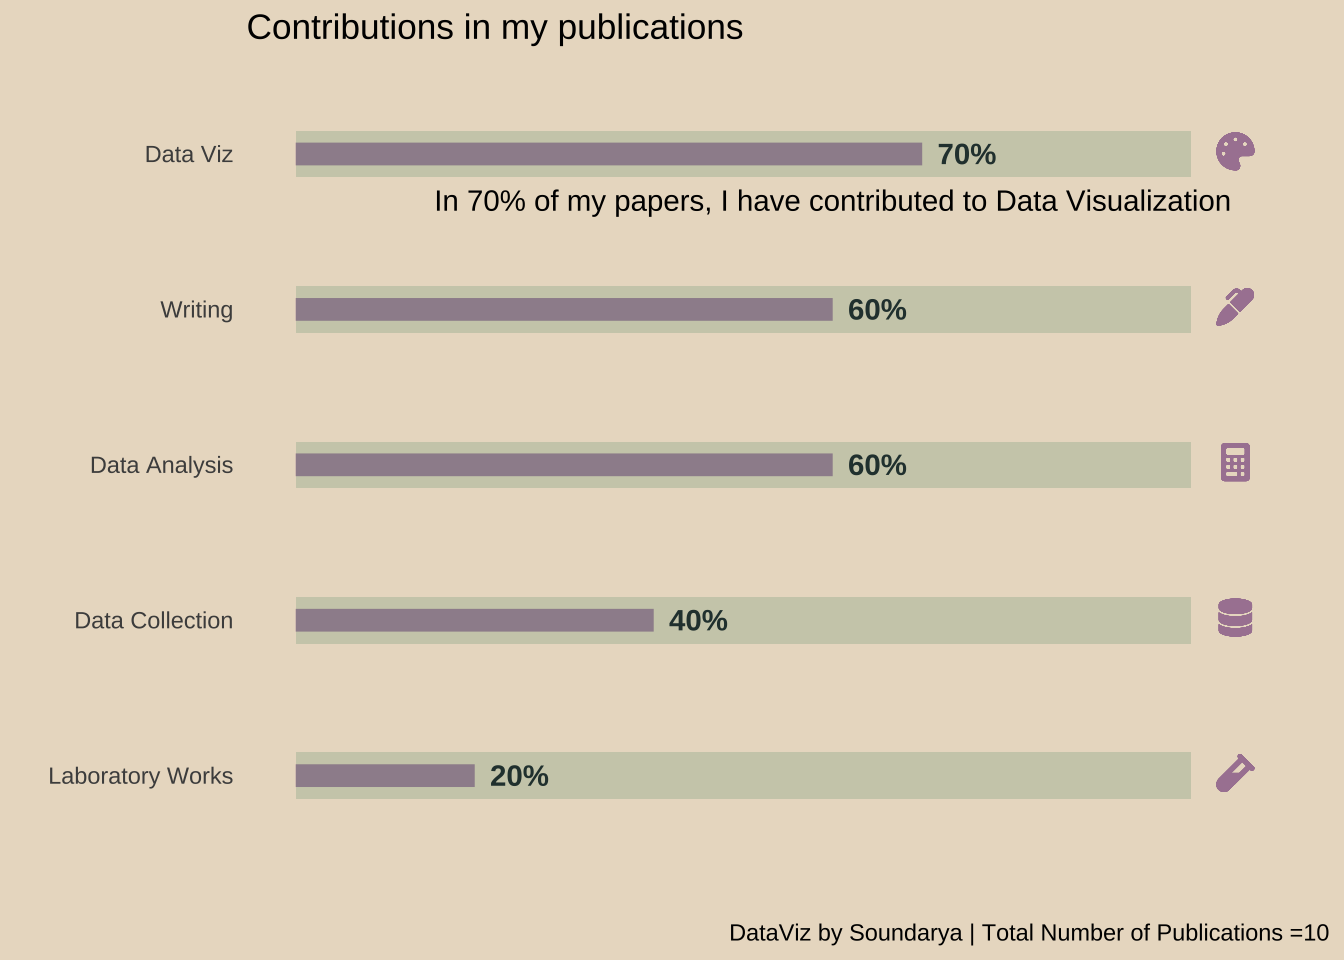
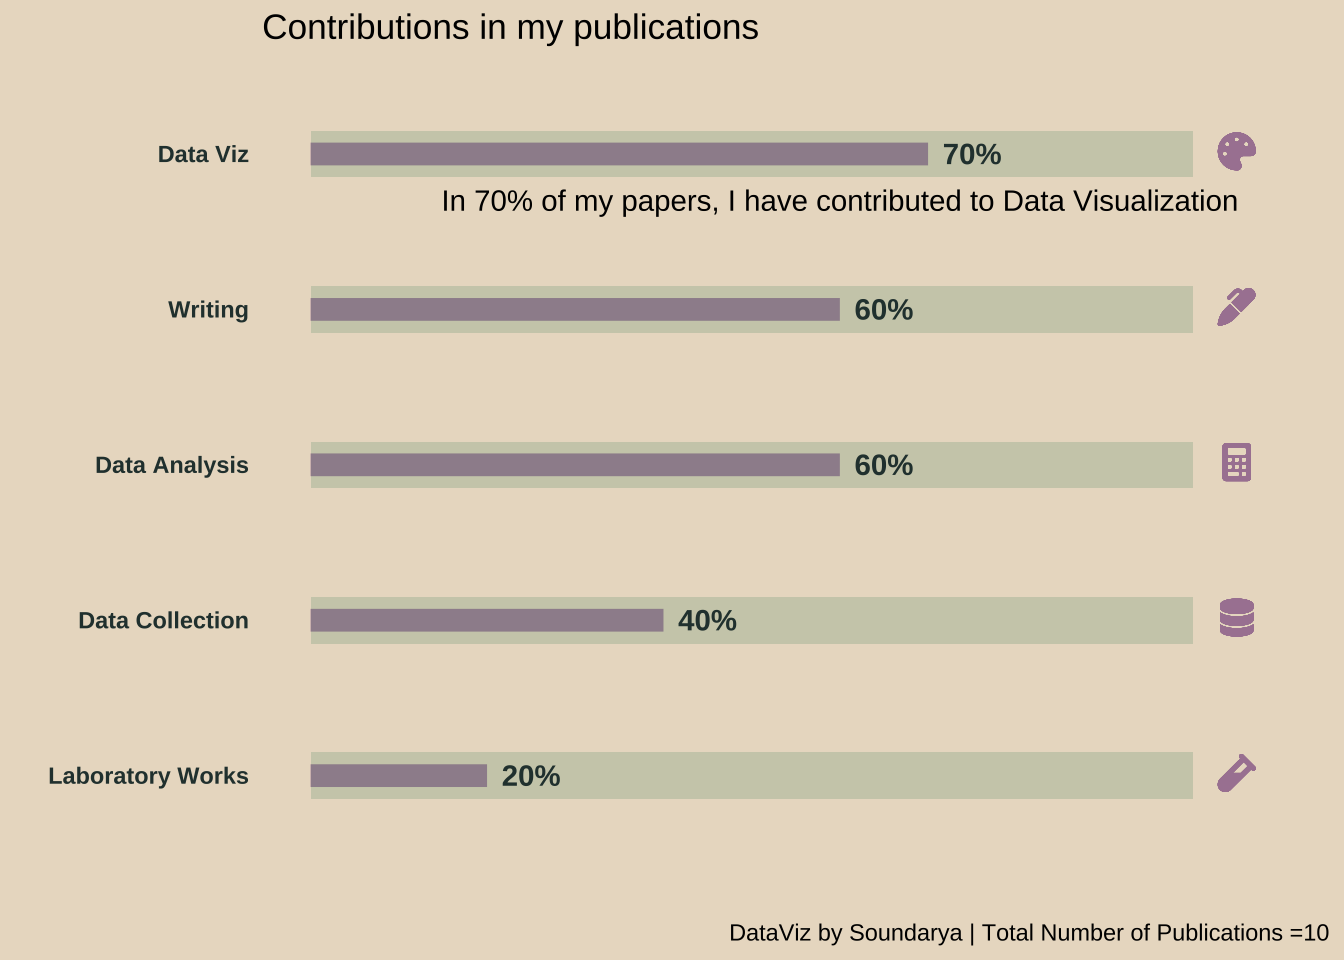
publications data viz y axis bolld

diff --git a/_site/portfolio.html b/_site/portfolio.html
@@ -100,68 +100,68 @@
 <p>This is a collection of my dataviz works; Click on the images to know the underlying codes.</p>
 <div class="quarto-layout-panel">
 <div class="quarto-layout-row quarto-layout-valign-top">
-<div id="fig-anonymous-651860" class="quarto-figure quarto-figure-left anchored" style="flex-basis: 35.1%;justify-content: center;">
+<div id="fig-anonymous-7796965" class="quarto-figure quarto-figure-left anchored" style="flex-basis: 35.1%;justify-content: center;">
 <figure class="figure">
 <p><a href="https://github.com/soundarya24/MyTidyTuesday/blob/master/w44_CanadianWindTurbines/RaincloudPlots_windTurbines.R"><img src="windTurbines.png" class="img-fluid figure-img" style="width:9.45in"></a></p>
 </figure>
 </div>
-<div id="fig-anonymous-2498356" class="quarto-figure quarto-figure-right anchored" style="flex-basis: 35.1%;justify-content: center;">
+<div id="fig-anonymous-8246955" class="quarto-figure quarto-figure-right anchored" style="flex-basis: 35.1%;justify-content: center;">
 <figure class="figure">
 <p><a href="https://github.com/soundarya24/MyTidyTuesday/blob/master/w39_HimalayanClimbers/Himalayas.R"><img src="Himalayas.png" class="img-fluid figure-img" style="width:9.45in"></a></p>
 </figure>
 </div>
-<div id="fig-anonymous-8832002" class="quarto-figure quarto-figure-left anchored" style="flex-basis: 29.7%;justify-content: center;">
+<div id="fig-anonymous-1070040" class="quarto-figure quarto-figure-left anchored" style="flex-basis: 29.7%;justify-content: center;">
 <figure class="figure">
 <p><a href="https://github.com/soundarya24/MyTidyTuesday/blob/master/w37_friends/Heatmap_friends_views.R"><img src="Heatmap_friends_views.png" class="img-fluid figure-img" style="width:8in"></a></p>
 </figure>
 </div>
 </div>
 <div class="quarto-layout-row quarto-layout-valign-top">
-<div id="fig-anonymous-3023105" class="quarto-figure quarto-figure-right anchored" style="flex-basis: 29.2%;justify-content: center;">
+<div id="fig-anonymous-9909293" class="quarto-figure quarto-figure-right anchored" style="flex-basis: 29.2%;justify-content: center;">
 <figure class="figure">
 <p><a href="https://github.com/soundarya24/MyTidyTuesday/blob/master/2021_w8_DuboisChallenge/Dubois_challenge.R"><img src="DuboisChallenge_areachart.png" class="img-fluid figure-img" style="width:7.78in"></a></p>
 </figure>
 </div>
-<div id="fig-anonymous-1888334" class="quarto-figure quarto-figure-left anchored" style="flex-basis: 35.4%;justify-content: center;">
+<div id="fig-anonymous-5545617" class="quarto-figure quarto-figure-left anchored" style="flex-basis: 35.4%;justify-content: center;">
 <figure class="figure">
 <p><a href="https://github.com/soundarya24/MyTidyTuesday/blob/master/2021_w2_traintransits/traintransit_dumbbell_twitter.R"><img src="trainlines_twitter.png" class="img-fluid figure-img" style="width:9.45in"></a></p>
 </figure>
 </div>
-<div id="fig-anonymous-2641387" class="quarto-figure quarto-figure-right anchored" style="flex-basis: 35.4%;justify-content: center;">
+<div id="fig-anonymous-8155288" class="quarto-figure quarto-figure-right anchored" style="flex-basis: 35.4%;justify-content: center;">
 <figure class="figure">
 <p><a href="https://github.com/soundarya24/MyRSpace/blob/main/My%20Thesis%20Manuscript%20Timeline/thesistimeline_github.Rmd"><img src="ThesisTimeline.png" class="img-fluid figure-img" style="width:9.45in"></a></p>
 </figure>
 </div>
 </div>
 <div class="quarto-layout-row quarto-layout-valign-top">
-<div id="fig-anonymous-8087951" class="quarto-figure quarto-figure-left anchored" style="flex-basis: 38.7%;justify-content: center;">
+<div id="fig-anonymous-7703782" class="quarto-figure quarto-figure-left anchored" style="flex-basis: 38.7%;justify-content: center;">
 <figure class="figure">
 <p><a href="https://twitter.com/SoundaryaRak/status/1528987670512553984?s=20&amp;t=-OlbuVRo5v3Qt4Aq_7EpsA"><img src="maldives.jpeg" class="img-fluid figure-img" style="width:9.45in"></a></p>
 </figure>
 </div>
-<div id="fig-anonymous-4432038" class="quarto-figure quarto-figure-center anchored" style="flex-basis: 30.7%;justify-content: center;">
+<div id="fig-anonymous-4410918" class="quarto-figure quarto-figure-center anchored" style="flex-basis: 30.7%;justify-content: center;">
 <figure class="figure">
 <p><a href="https://twitter.com/SoundaryaRak/status/1529423882821595136?s=20&amp;t=-OlbuVRo5v3Qt4Aq_7EpsA"><img src="afd.jpeg" class="img-fluid figure-img" style="width:7.5in"></a></p>
 </figure>
 </div>
-<div id="fig-anonymous-9056685" class="quarto-figure quarto-figure-right anchored" style="flex-basis: 30.5%;justify-content: center;">
+<div id="fig-anonymous-2981753" class="quarto-figure quarto-figure-right anchored" style="flex-basis: 30.5%;justify-content: center;">
 <figure class="figure">
 <p><a href="https://twitter.com/SoundaryaRak/status/1459124741537611783?s=20&amp;t=-OlbuVRo5v3Qt4Aq_7EpsA"><img src="acwri.png" class="img-fluid figure-img" style="width:7.45in"></a></p>
 </figure>
 </div>
 </div>
 <div class="quarto-layout-row quarto-layout-valign-top">
-<div id="fig-anonymous-5525551" class="quarto-figure quarto-figure-left anchored" style="flex-basis: 33.3%;justify-content: center;">
+<div id="fig-anonymous-253750" class="quarto-figure quarto-figure-left anchored" style="flex-basis: 33.3%;justify-content: center;">
 <figure class="figure">
 <p><a href="https://twitter.com/SoundaryaRak/status/1369508582232748035/photo/2"><img src="wordcloud.jpeg" class="img-fluid figure-img" style="width:9.45in"></a></p>
 </figure>
 </div>
-<div id="fig-anonymous-5484888" class="quarto-figure quarto-figure-center anchored" style="flex-basis: 33.3%;justify-content: center;">
+<div id="fig-anonymous-8633472" class="quarto-figure quarto-figure-center anchored" style="flex-basis: 33.3%;justify-content: center;">
 <figure class="figure">
 <p><a href="https://github.com/soundarya24/MyRSpace/blob/main/MyCalendar2021/my2021_calendar_github.R"><img src="calendar.jpeg" class="img-fluid figure-img" style="width:9.45in"></a></p>
 </figure>
 </div>
-<div id="fig-anonymous-2100373" class="quarto-figure quarto-figure-center anchored" style="flex-basis: 33.3%;justify-content: center;">
+<div id="fig-anonymous-8558254" class="quarto-figure quarto-figure-center anchored" style="flex-basis: 33.3%;justify-content: center;">
 <figure class="figure">
 <p><a href="https://github.com/soundarya24/MyTidyTuesday/blob/master/w51_ninjawarrior/ninjawarrior_alluvial.R"><img src="sankey.jpeg" class="img-fluid figure-img" style="width:9.45in"></a></p>
 </figure>
